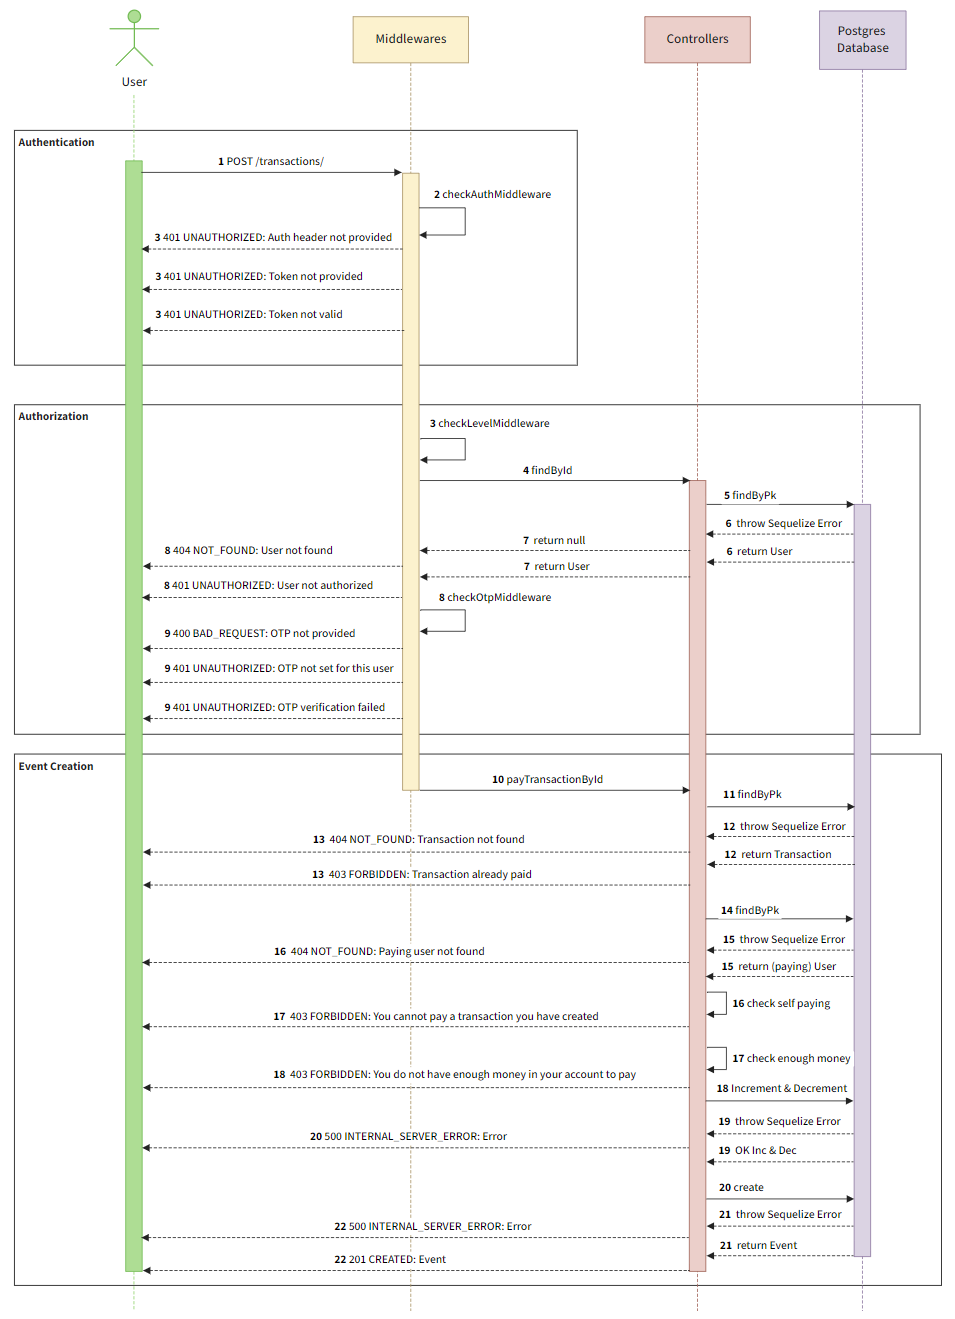
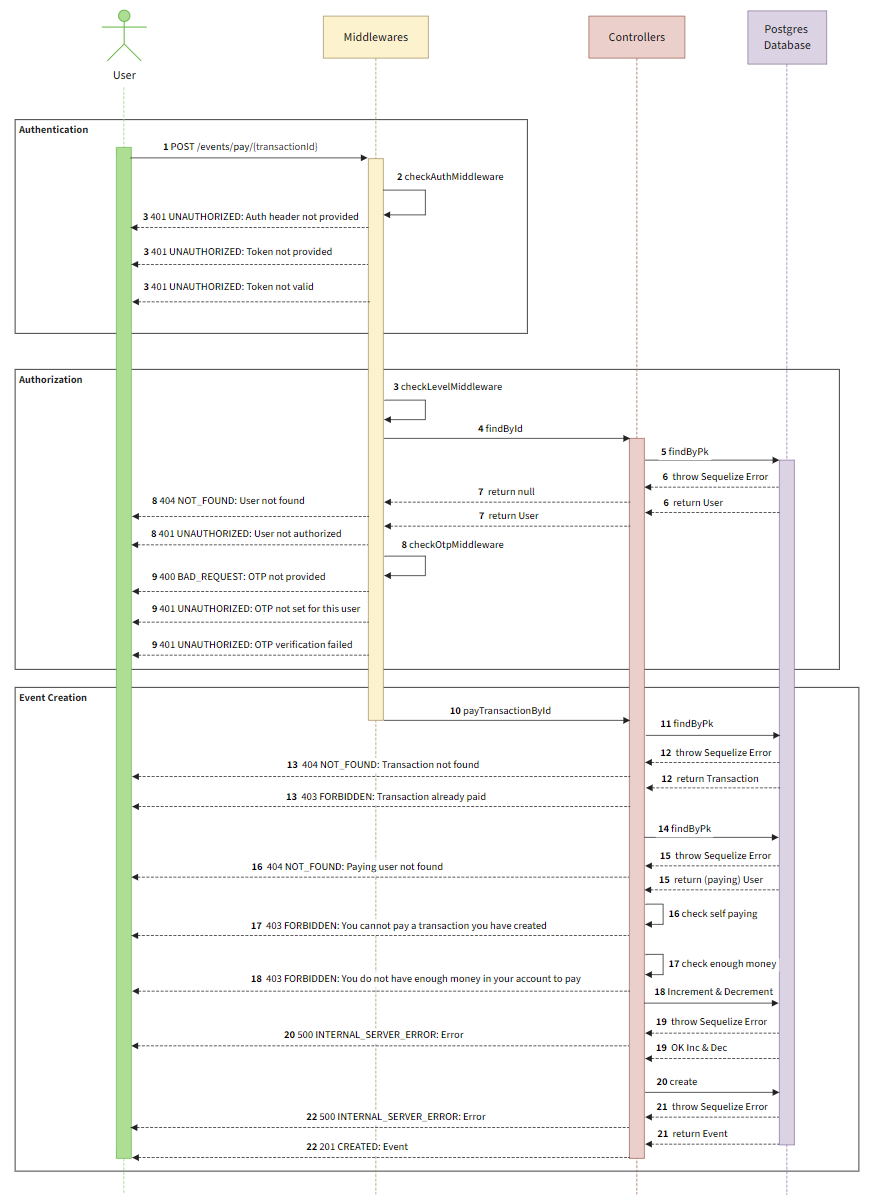
Documentation corrections

diff --git a/README.md b/README.md
@@ -21,7 +21,7 @@ Consider what happens when making a cash payment in a store: the seller informs 
 
 Therefore, the natural payment dynamics require a digital device, such as our computers or, better yet, smartphones, which we always carry with us when we are out and need to make payments. In fact, recently, carrying a physical card has become inconvenient, and people prefer to use its digital version through applications, using NFC. While this doesn't solve the fundamental issue of physical cards described earlier, it adds an additional advantage to a cardless system like Vector. A similar payment method is employed in bank transfers, where each user has an account, and sensitive information is never shared but payments are initiated to recipients. However, this system is not used for small daily payments because it has long processing times, which are incompatible with the requirements of a payment circuit for such transactions. Furthermore, the amount initiated is determined by the sender of the transaction, potentially leading to errors, while the recipient, who usually knows the exact payment amount, is the one who typically provides the product or service for sale.
 
-Vector offers the possibility to create an account easily and quickly. Note that the account creation process is simplified here, similar to registering on any website with an email and password, even without an email confirmation system. In a real-world application, the account creation process should be managed by the responsible bank for the circuit. Users can create transactions when they need to receive money for any sale or service, specifying the amount and purpose of the transaction. Subsequently, a simple transaction identification code is communicated to the payer, for example, via NFC or another method. This allows the payer to review the transaction details and decide whether to confirm the payment. Confirmation is done through digital signatures, and no sensitive data leaves the user's device. This restores the natural and secure payment dynamics described earlier. Additionally, functionalities are provided for transaction control and taxation by a privileged user, defined as an Authority, and the possibility of refunding money from a received transaction, which is a typical situation in product returns.
+Vector offers the possibility to create an account easily and quickly. Note that the account creation process is simplified here, similar to registering on any website with an email and password, even without an email confirmation system. In a real-world application, the account creation process should be managed by the responsible bank for the circuit. Users can create transactions when they need to receive money for any sale or service, specifying the amount and purpose of the transaction. Subsequently, a simple transaction identification code is communicated to the payer, for example, via NFC or another method. This allows the payer to review the transaction details and decide whether to confirm the payment. Confirmation is done through digital signatures, and no sensitive data leaves the user's device. OTP two factor authentication is also implemented for safety purposes. This restores the natural and secure payment dynamics described earlier. Additionally, functionalities are provided for transaction control and taxation by a privileged user, defined as an Authority, and the possibility of refunding money from a received transaction, which is a typical situation in product returns.
 
 ## Project Purpose
 The purpose of Vector is to provide an efficient and scalable service for use as a foundation to build an actual online payment circuit by a bank. 
@@ -634,7 +634,7 @@ Response:
 
 **Pay transaction** (User)
 
-Pay a transaction (records the event and moves the money).
+Pay a transaction (records the event and moves the money). It requires OTP two factor authentication.
 
 Route:
 ```bash
@@ -685,7 +685,7 @@ Response:
 
 **Return transaction** (User, Admin)
 
-Return the money from an already paid transaction to the sender (records the event and moves the money).
+Return the money from an already paid transaction to the sender (records the event and moves the money). It requires OTP two factor authentication.
 
 Route:
 ```bash
